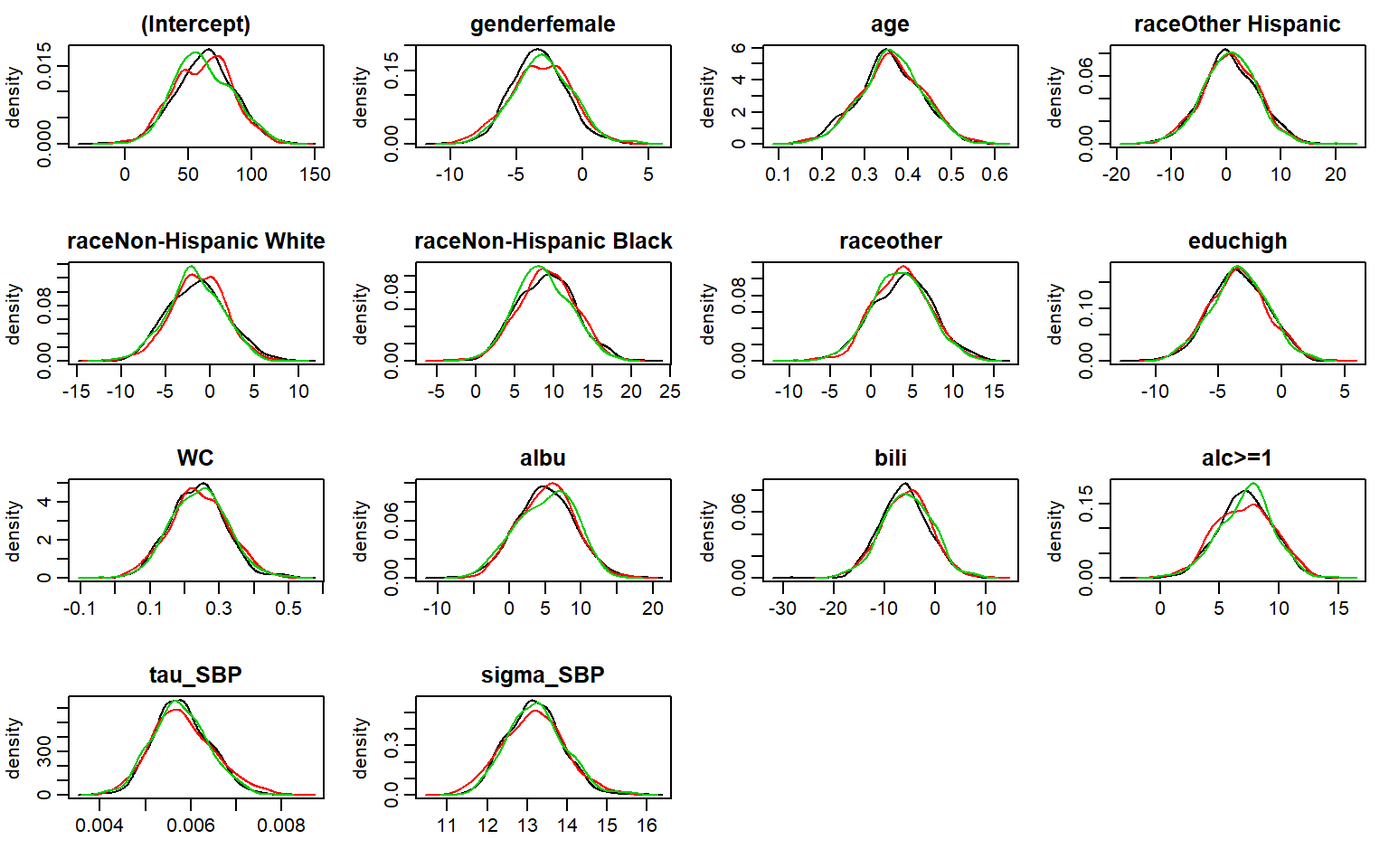
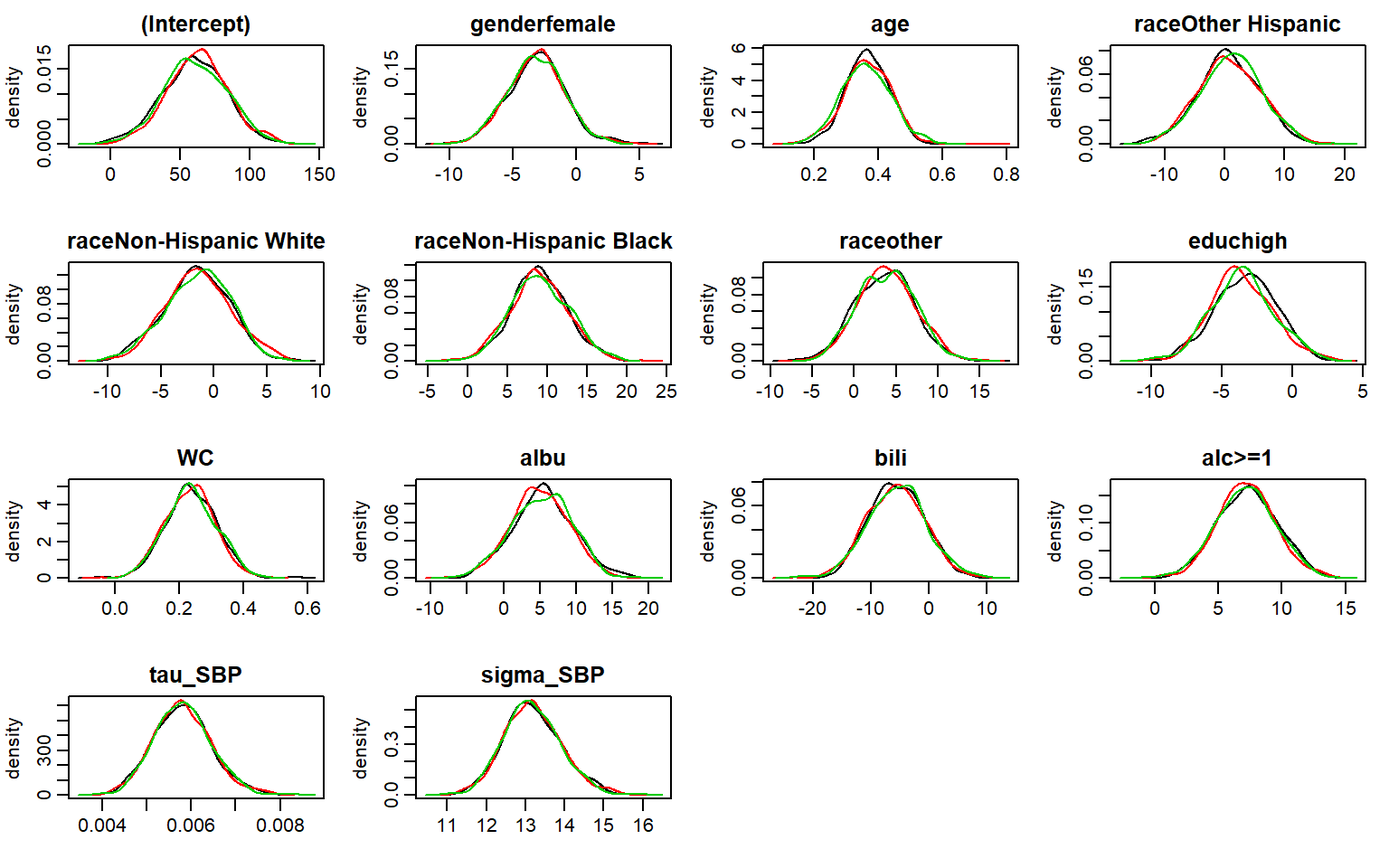
update webpage [skip ci]

diff --git a/docs/articles/SelectingParameters.html b/docs/articles/SelectingParameters.html
@@ -106,7 +106,7 @@
             <h3 class="subtitle">How to specify which parameters to monitor and display in the results.</h3>
                         <h4 class="author">Nicole Erler</h4>
             
-            <h4 class="date">2018-08-17</h4>
+            <h4 class="date">2018-10-11</h4>
       
       <small class="dont-index">Source: <a href="https://github.com/nerler/JointAI/blob/master/vignettes/SelectingParameters.Rmd"><code>vignettes/SelectingParameters.Rmd</code></a></small>
       <div class="hidden name"><code>SelectingParameters.Rmd</code></div>
@@ -423,16 +423,16 @@
 <a class="sourceLine" id="cb10-14" data-line-number="14"><span class="co">#&gt;     mess = FALSE)</span></a>
 <a class="sourceLine" id="cb10-15" data-line-number="15"><span class="co">#&gt; </span></a>
 <a class="sourceLine" id="cb10-16" data-line-number="16"><span class="co">#&gt; Posterior summary:</span></a>
-<a class="sourceLine" id="cb10-17" data-line-number="17"><span class="co">#&gt;                 Mean      SD     2.5%    97.5% tail-prob.</span></a>
-<a class="sourceLine" id="cb10-18" data-line-number="18"><span class="co">#&gt; (Intercept)  80.3247 9.90306  63.9270 101.0691     0.0000</span></a>
-<a class="sourceLine" id="cb10-19" data-line-number="19"><span class="co">#&gt; genderfemale  0.4093 2.59864  -4.6925   5.5790     0.8667</span></a>
-<a class="sourceLine" id="cb10-20" data-line-number="20"><span class="co">#&gt; WC            0.3083 0.07712   0.1667   0.4481     0.0000</span></a>
-<a class="sourceLine" id="cb10-21" data-line-number="21"><span class="co">#&gt; creat         8.1528 8.24789 -10.4008  23.9831     0.2933</span></a>
-<a class="sourceLine" id="cb10-22" data-line-number="22"><span class="co">#&gt; alc&gt;=1        6.7247 2.17851   2.6969  11.0105     0.0000</span></a>
+<a class="sourceLine" id="cb10-17" data-line-number="17"><span class="co">#&gt;                 Mean      SD    2.5%   97.5% tail-prob.</span></a>
+<a class="sourceLine" id="cb10-18" data-line-number="18"><span class="co">#&gt; (Intercept)  80.5811 9.51610 61.9715 98.4175   0.000000</span></a>
+<a class="sourceLine" id="cb10-19" data-line-number="19"><span class="co">#&gt; genderfemale  0.4013 2.40655 -4.2684  5.7103   0.893333</span></a>
+<a class="sourceLine" id="cb10-20" data-line-number="20"><span class="co">#&gt; WC            0.3092 0.07475  0.1643  0.4521   0.000000</span></a>
+<a class="sourceLine" id="cb10-21" data-line-number="21"><span class="co">#&gt; creat         8.0391 7.28329 -6.1762 21.2571   0.226667</span></a>
+<a class="sourceLine" id="cb10-22" data-line-number="22"><span class="co">#&gt; alc&gt;=1        6.3913 2.46871  1.9944 11.4872   0.006667</span></a>
 <a class="sourceLine" id="cb10-23" data-line-number="23"><span class="co">#&gt; </span></a>
 <a class="sourceLine" id="cb10-24" data-line-number="24"><span class="co">#&gt; Posterior summary of residual std. deviation:</span></a>
-<a class="sourceLine" id="cb10-25" data-line-number="25"><span class="co">#&gt;            Mean     SD  2.5% 97.5%</span></a>
-<a class="sourceLine" id="cb10-26" data-line-number="26"><span class="co">#&gt; sigma_SBP 14.43 0.8102 13.03 16.19</span></a>
+<a class="sourceLine" id="cb10-25" data-line-number="25"><span class="co">#&gt;           Mean    SD  2.5% 97.5%</span></a>
+<a class="sourceLine" id="cb10-26" data-line-number="26"><span class="co">#&gt; sigma_SBP 14.3 0.757 12.99 15.88</span></a>
 <a class="sourceLine" id="cb10-27" data-line-number="27"><span class="co">#&gt; </span></a>
 <a class="sourceLine" id="cb10-28" data-line-number="28"><span class="co">#&gt; </span></a>
 <a class="sourceLine" id="cb10-29" data-line-number="29"><span class="co">#&gt; MCMC settings:</span></a>
@@ -456,28 +456,28 @@
 <a class="sourceLine" id="cb12-4" data-line-number="4"><span class="co">#&gt; Potential scale reduction factors:</span></a>
 <a class="sourceLine" id="cb12-5" data-line-number="5"><span class="co">#&gt; </span></a>
 <a class="sourceLine" id="cb12-6" data-line-number="6"><span class="co">#&gt;              Point est. Upper C.I.</span></a>
-<a class="sourceLine" id="cb12-7" data-line-number="7"><span class="co">#&gt; (Intercept)       1.008       1.04</span></a>
-<a class="sourceLine" id="cb12-8" data-line-number="8"><span class="co">#&gt; genderfemale      0.998       1.00</span></a>
-<a class="sourceLine" id="cb12-9" data-line-number="9"><span class="co">#&gt; WC                1.013       1.06</span></a>
-<a class="sourceLine" id="cb12-10" data-line-number="10"><span class="co">#&gt; creat             1.004       1.01</span></a>
-<a class="sourceLine" id="cb12-11" data-line-number="11"><span class="co">#&gt; alc&gt;=1            1.005       1.01</span></a>
-<a class="sourceLine" id="cb12-12" data-line-number="12"><span class="co">#&gt; tau_SBP           1.013       1.04</span></a>
-<a class="sourceLine" id="cb12-13" data-line-number="13"><span class="co">#&gt; sigma_SBP         1.017       1.05</span></a>
+<a class="sourceLine" id="cb12-7" data-line-number="7"><span class="co">#&gt; (Intercept)        1.00       1.01</span></a>
+<a class="sourceLine" id="cb12-8" data-line-number="8"><span class="co">#&gt; genderfemale       1.01       1.03</span></a>
+<a class="sourceLine" id="cb12-9" data-line-number="9"><span class="co">#&gt; WC                 1.01       1.03</span></a>
+<a class="sourceLine" id="cb12-10" data-line-number="10"><span class="co">#&gt; creat              1.01       1.04</span></a>
+<a class="sourceLine" id="cb12-11" data-line-number="11"><span class="co">#&gt; alc&gt;=1             1.01       1.05</span></a>
+<a class="sourceLine" id="cb12-12" data-line-number="12"><span class="co">#&gt; tau_SBP            1.03       1.11</span></a>
+<a class="sourceLine" id="cb12-13" data-line-number="13"><span class="co">#&gt; sigma_SBP          1.04       1.13</span></a>
 <a class="sourceLine" id="cb12-14" data-line-number="14"><span class="co">#&gt; </span></a>
 <a class="sourceLine" id="cb12-15" data-line-number="15"><span class="co">#&gt; Multivariate psrf</span></a>
 <a class="sourceLine" id="cb12-16" data-line-number="16"><span class="co">#&gt; </span></a>
-<a class="sourceLine" id="cb12-17" data-line-number="17"><span class="co">#&gt; 1.03</span></a>
+<a class="sourceLine" id="cb12-17" data-line-number="17"><span class="co">#&gt; 1.06</span></a>
 <a class="sourceLine" id="cb12-18" data-line-number="18"></a>
 <a class="sourceLine" id="cb12-19" data-line-number="19"><span class="co"># Monte Carlo Error of the MCMC sample</span></a>
 <a class="sourceLine" id="cb12-20" data-line-number="20"><span class="kw"><a href="../reference/MC_error.html">MC_error</a></span>(lm5)</a>
 <a class="sourceLine" id="cb12-21" data-line-number="21"><span class="co">#&gt;                  est    MCSE      SD MCSE/SD</span></a>
-<a class="sourceLine" id="cb12-22" data-line-number="22"><span class="co">#&gt; (Intercept)  38.1398 4.2e+00 4.8e+01   0.088</span></a>
-<a class="sourceLine" id="cb12-23" data-line-number="23"><span class="co">#&gt; genderfemale  0.4093 1.7e-01 2.6e+00   0.066</span></a>
-<a class="sourceLine" id="cb12-24" data-line-number="24"><span class="co">#&gt; WC            0.0211 3.2e-04 5.3e-03   0.061</span></a>
-<a class="sourceLine" id="cb12-25" data-line-number="25"><span class="co">#&gt; creat        47.6226 4.2e+00 4.8e+01   0.087</span></a>
-<a class="sourceLine" id="cb12-26" data-line-number="26"><span class="co">#&gt; alc&gt;=1        6.7247 1.1e-01 2.2e+00   0.051</span></a>
-<a class="sourceLine" id="cb12-27" data-line-number="27"><span class="co">#&gt; tau_SBP       0.0048 3.2e-05 5.4e-04   0.060</span></a>
-<a class="sourceLine" id="cb12-28" data-line-number="28"><span class="co">#&gt; sigma_SBP    14.4324 4.9e-02 8.1e-01   0.060</span></a></code></pre></div>
+<a class="sourceLine" id="cb12-22" data-line-number="22"><span class="co">#&gt; (Intercept)  38.9510 2.9e+00 4.2e+01   0.069</span></a>
+<a class="sourceLine" id="cb12-23" data-line-number="23"><span class="co">#&gt; genderfemale  0.4013 1.1e-01 2.4e+00   0.044</span></a>
+<a class="sourceLine" id="cb12-24" data-line-number="24"><span class="co">#&gt; WC            0.0211 3.4e-04 5.1e-03   0.067</span></a>
+<a class="sourceLine" id="cb12-25" data-line-number="25"><span class="co">#&gt; creat        46.9580 3.0e+00 4.3e+01   0.070</span></a>
+<a class="sourceLine" id="cb12-26" data-line-number="26"><span class="co">#&gt; alc&gt;=1        6.3913 1.7e-01 2.5e+00   0.069</span></a>
+<a class="sourceLine" id="cb12-27" data-line-number="27"><span class="co">#&gt; tau_SBP       0.0049 3.2e-05 5.2e-04   0.061</span></a>
+<a class="sourceLine" id="cb12-28" data-line-number="28"><span class="co">#&gt; sigma_SBP    14.2987 4.7e-02 7.6e-01   0.062</span></a></code></pre></div>
 <p>When <code>analysis_main</code> was not switched on, all parameters are displayed by default:</p>
 <div class="sourceCode" id="cb13"><pre class="sourceCode r"><code class="sourceCode r"><a class="sourceLine" id="cb13-1" data-line-number="1"><span class="co"># Re-run the model from above, now creating MCMC samples</span></a>
 <a class="sourceLine" id="cb13-2" data-line-number="2">lm4 &lt;-<span class="st"> </span><span class="kw"><a href="../reference/model_imp.html">lm_imp</a></span>(SBP <span class="op">~</span><span class="st"> </span>gender <span class="op">+</span><span class="st"> </span>WC <span class="op">+</span><span class="st"> </span>alc <span class="op">+</span><span class="st"> </span>creat,</a>
@@ -496,21 +496,21 @@
 <a class="sourceLine" id="cb14-3" data-line-number="3"><span class="co">#&gt; Potential scale reduction factors:</span></a>
 <a class="sourceLine" id="cb14-4" data-line-number="4"><span class="co">#&gt; </span></a>
 <a class="sourceLine" id="cb14-5" data-line-number="5"><span class="co">#&gt;           Point est. Upper C.I.</span></a>
-<a class="sourceLine" id="cb14-6" data-line-number="6"><span class="co">#&gt; alpha[1]       1.005       1.01</span></a>
-<a class="sourceLine" id="cb14-7" data-line-number="7"><span class="co">#&gt; alpha[2]       0.998       1.00</span></a>
-<a class="sourceLine" id="cb14-8" data-line-number="8"><span class="co">#&gt; alpha[3]       1.003       1.01</span></a>
-<a class="sourceLine" id="cb14-9" data-line-number="9"><span class="co">#&gt; alpha[4]       1.001       1.00</span></a>
-<a class="sourceLine" id="cb14-10" data-line-number="10"><span class="co">#&gt; alpha[5]       1.023       1.06</span></a>
-<a class="sourceLine" id="cb14-11" data-line-number="11"><span class="co">#&gt; alpha[6]       1.074       1.25</span></a>
-<a class="sourceLine" id="cb14-12" data-line-number="12"><span class="co">#&gt; alpha[7]       1.057       1.20</span></a>
-<a class="sourceLine" id="cb14-13" data-line-number="13"><span class="co">#&gt; alpha[8]       1.012       1.04</span></a>
-<a class="sourceLine" id="cb14-14" data-line-number="14"><span class="co">#&gt; alpha[9]       1.064       1.22</span></a>
-<a class="sourceLine" id="cb14-15" data-line-number="15"><span class="co">#&gt; tau_WC         1.007       1.02</span></a>
-<a class="sourceLine" id="cb14-16" data-line-number="16"><span class="co">#&gt; tau_creat      1.008       1.04</span></a>
+<a class="sourceLine" id="cb14-6" data-line-number="6"><span class="co">#&gt; alpha[1]       0.998       1.00</span></a>
+<a class="sourceLine" id="cb14-7" data-line-number="7"><span class="co">#&gt; alpha[2]       1.004       1.01</span></a>
+<a class="sourceLine" id="cb14-8" data-line-number="8"><span class="co">#&gt; alpha[3]       1.020       1.07</span></a>
+<a class="sourceLine" id="cb14-9" data-line-number="9"><span class="co">#&gt; alpha[4]       1.023       1.09</span></a>
+<a class="sourceLine" id="cb14-10" data-line-number="10"><span class="co">#&gt; alpha[5]       1.007       1.04</span></a>
+<a class="sourceLine" id="cb14-11" data-line-number="11"><span class="co">#&gt; alpha[6]       1.028       1.10</span></a>
+<a class="sourceLine" id="cb14-12" data-line-number="12"><span class="co">#&gt; alpha[7]       1.041       1.14</span></a>
+<a class="sourceLine" id="cb14-13" data-line-number="13"><span class="co">#&gt; alpha[8]       1.002       1.02</span></a>
+<a class="sourceLine" id="cb14-14" data-line-number="14"><span class="co">#&gt; alpha[9]       1.042       1.15</span></a>
+<a class="sourceLine" id="cb14-15" data-line-number="15"><span class="co">#&gt; tau_WC         1.000       1.00</span></a>
+<a class="sourceLine" id="cb14-16" data-line-number="16"><span class="co">#&gt; tau_creat      1.000       1.00</span></a>
 <a class="sourceLine" id="cb14-17" data-line-number="17"><span class="co">#&gt; </span></a>
 <a class="sourceLine" id="cb14-18" data-line-number="18"><span class="co">#&gt; Multivariate psrf</span></a>
 <a class="sourceLine" id="cb14-19" data-line-number="19"><span class="co">#&gt; </span></a>
-<a class="sourceLine" id="cb14-20" data-line-number="20"><span class="co">#&gt; 1.09</span></a></code></pre></div>
+<a class="sourceLine" id="cb14-20" data-line-number="20"><span class="co">#&gt; 1.07</span></a></code></pre></div>
 <p>To select only some of the parameters, they can be specified directly by name via the <code>other</code> element of <code>subset</code>:</p>
 <div class="sourceCode" id="cb15"><pre class="sourceCode r"><code class="sourceCode r"><a class="sourceLine" id="cb15-1" data-line-number="1"><span class="kw">summary</span>(lm5, <span class="dt">subset =</span> <span class="kw">list</span>(<span class="dt">other =</span> <span class="kw">c</span>(<span class="st">'creat'</span>, <span class="st">'alc&gt;=1'</span>)))</a>
 <a class="sourceLine" id="cb15-2" data-line-number="2"><span class="co">#&gt; </span></a>
@@ -522,9 +522,9 @@
 <a class="sourceLine" id="cb15-8" data-line-number="8"><span class="co">#&gt;     mess = FALSE)</span></a>
 <a class="sourceLine" id="cb15-9" data-line-number="9"><span class="co">#&gt; </span></a>
 <a class="sourceLine" id="cb15-10" data-line-number="10"><span class="co">#&gt; Posterior summary:</span></a>
-<a class="sourceLine" id="cb15-11" data-line-number="11"><span class="co">#&gt;         Mean    SD    2.5% 97.5% tail-prob.</span></a>
-<a class="sourceLine" id="cb15-12" data-line-number="12"><span class="co">#&gt; creat  8.153 8.248 -10.401 23.98     0.2933</span></a>
-<a class="sourceLine" id="cb15-13" data-line-number="13"><span class="co">#&gt; alc&gt;=1 6.725 2.179   2.697 11.01     0.0000</span></a>
+<a class="sourceLine" id="cb15-11" data-line-number="11"><span class="co">#&gt;         Mean    SD   2.5% 97.5% tail-prob.</span></a>
+<a class="sourceLine" id="cb15-12" data-line-number="12"><span class="co">#&gt; creat  8.039 7.283 -6.176 21.26   0.226667</span></a>
+<a class="sourceLine" id="cb15-13" data-line-number="13"><span class="co">#&gt; alc&gt;=1 6.391 2.469  1.994 11.49   0.006667</span></a>
 <a class="sourceLine" id="cb15-14" data-line-number="14"><span class="co">#&gt; </span></a>
 <a class="sourceLine" id="cb15-15" data-line-number="15"><span class="co">#&gt; </span></a>
 <a class="sourceLine" id="cb15-16" data-line-number="16"><span class="co">#&gt; MCMC settings:</span></a>

diff --git a/docs/articles/MinimalExample.html b/docs/articles/MinimalExample.html
@@ -105,7 +105,7 @@
       <h1>Minimal Example</h1>
                         <h4 class="author">Nicole Erler</h4>
             
-            <h4 class="date">2018-08-17</h4>
+            <h4 class="date">2018-10-11</h4>
       
       <small class="dont-index">Source: <a href="https://github.com/nerler/JointAI/blob/master/vignettes/MinimalExample.Rmd"><code>vignettes/MinimalExample.Rmd</code></a></small>
       <div class="hidden name"><code>MinimalExample.Rmd</code></div>
@@ -148,22 +148,22 @@
 <a class="sourceLine" id="cb3-8" data-line-number="8"><span class="co">#&gt; </span></a>
 <a class="sourceLine" id="cb3-9" data-line-number="9"><span class="co">#&gt; Posterior summary:</span></a>
 <a class="sourceLine" id="cb3-10" data-line-number="10"><span class="co">#&gt;                           Mean       SD      2.5%    97.5% tail-prob.</span></a>
-<a class="sourceLine" id="cb3-11" data-line-number="11"><span class="co">#&gt; (Intercept)            61.9706 22.73838  19.25178 106.7669   0.009333</span></a>
-<a class="sourceLine" id="cb3-12" data-line-number="12"><span class="co">#&gt; genderfemale           -3.1794  2.21281  -7.43877   1.1645   0.136000</span></a>
-<a class="sourceLine" id="cb3-13" data-line-number="13"><span class="co">#&gt; age                     0.3600  0.07307   0.21744   0.5014   0.000000</span></a>
-<a class="sourceLine" id="cb3-14" data-line-number="14"><span class="co">#&gt; raceOther Hispanic      0.6555  4.98918  -9.52485  10.5483   0.897333</span></a>
-<a class="sourceLine" id="cb3-15" data-line-number="15"><span class="co">#&gt; raceNon-Hispanic White -1.4687  3.17973  -7.64047   4.6422   0.653333</span></a>
-<a class="sourceLine" id="cb3-16" data-line-number="16"><span class="co">#&gt; raceNon-Hispanic Black  8.9857  3.62409   2.24082  16.1620   0.010667</span></a>
-<a class="sourceLine" id="cb3-17" data-line-number="17"><span class="co">#&gt; raceother               3.6784  3.57537  -3.25126  10.6580   0.300000</span></a>
-<a class="sourceLine" id="cb3-18" data-line-number="18"><span class="co">#&gt; educhigh               -3.4017  2.25281  -7.96399   1.0274   0.134667</span></a>
-<a class="sourceLine" id="cb3-19" data-line-number="19"><span class="co">#&gt; WC                      0.2398  0.08170   0.08734   0.3982   0.001333</span></a>
-<a class="sourceLine" id="cb3-20" data-line-number="20"><span class="co">#&gt; albu                    5.0993  4.01889  -2.71999  12.5898   0.224000</span></a>
-<a class="sourceLine" id="cb3-21" data-line-number="21"><span class="co">#&gt; bili                   -5.7923  4.88854 -15.29000   3.7442   0.237333</span></a>
-<a class="sourceLine" id="cb3-22" data-line-number="22"><span class="co">#&gt; alc&gt;=1                  7.1585  2.33865   2.58164  11.5622   0.005333</span></a>
+<a class="sourceLine" id="cb3-11" data-line-number="11"><span class="co">#&gt; (Intercept)            61.2044 22.34042  16.87496 105.6097   0.004000</span></a>
+<a class="sourceLine" id="cb3-12" data-line-number="12"><span class="co">#&gt; genderfemale           -3.1176  2.24039  -7.41310   1.3510   0.148000</span></a>
+<a class="sourceLine" id="cb3-13" data-line-number="13"><span class="co">#&gt; age                     0.3646  0.07281   0.21382   0.5015   0.000000</span></a>
+<a class="sourceLine" id="cb3-14" data-line-number="14"><span class="co">#&gt; raceOther Hispanic      0.8638  5.11996  -9.43010  10.7617   0.869333</span></a>
+<a class="sourceLine" id="cb3-15" data-line-number="15"><span class="co">#&gt; raceNon-Hispanic White -1.5215  3.04112  -7.62463   4.3000   0.629333</span></a>
+<a class="sourceLine" id="cb3-16" data-line-number="16"><span class="co">#&gt; raceNon-Hispanic Black  9.0333  3.58081   2.07704  16.1567   0.012000</span></a>
+<a class="sourceLine" id="cb3-17" data-line-number="17"><span class="co">#&gt; raceother               3.8067  3.45163  -2.75214  10.3218   0.269333</span></a>
+<a class="sourceLine" id="cb3-18" data-line-number="18"><span class="co">#&gt; educhigh               -3.5014  2.19464  -7.74793   0.8789   0.122667</span></a>
+<a class="sourceLine" id="cb3-19" data-line-number="19"><span class="co">#&gt; WC                      0.2364  0.07902   0.08523   0.3881   0.004000</span></a>
+<a class="sourceLine" id="cb3-20" data-line-number="20"><span class="co">#&gt; albu                    5.2677  4.08660  -2.91482  13.0830   0.197333</span></a>
+<a class="sourceLine" id="cb3-21" data-line-number="21"><span class="co">#&gt; bili                   -5.6240  4.89290 -14.85505   3.6771   0.250667</span></a>
+<a class="sourceLine" id="cb3-22" data-line-number="22"><span class="co">#&gt; alc&gt;=1                  7.2322  2.31987   2.82274  11.7413   0.001333</span></a>
 <a class="sourceLine" id="cb3-23" data-line-number="23"><span class="co">#&gt; </span></a>
 <a class="sourceLine" id="cb3-24" data-line-number="24"><span class="co">#&gt; Posterior summary of residual std. deviation:</span></a>
 <a class="sourceLine" id="cb3-25" data-line-number="25"><span class="co">#&gt;            Mean     SD  2.5% 97.5%</span></a>
-<a class="sourceLine" id="cb3-26" data-line-number="26"><span class="co">#&gt; sigma_SBP 13.19 0.7309 11.82 14.68</span></a>
+<a class="sourceLine" id="cb3-26" data-line-number="26"><span class="co">#&gt; sigma_SBP 13.18 0.7363 11.82 14.73</span></a>
 <a class="sourceLine" id="cb3-27" data-line-number="27"><span class="co">#&gt; </span></a>
 <a class="sourceLine" id="cb3-28" data-line-number="28"><span class="co">#&gt; </span></a>
 <a class="sourceLine" id="cb3-29" data-line-number="29"><span class="co">#&gt; MCMC settings:</span></a>

diff --git a/docs/reference/GR_crit.html b/docs/reference/GR_crit.html
@@ -220,9 +220,11 @@ given directly by <strong>JointAI</strong>.</p></td>
     
     <h2 class="hasAnchor" id="references"><a class="anchor" href="#references"></a>References</h2>
 
-    <p>Gelman, A., Meng, X. L., &amp; Stern, H. (1996).
-Posterior predictive assessment of model fitness via realized discrepancies.
-<em>Statistica Sinica</em>, 733-760.</p>
+    <p>Gelman, A and Rubin, DB (1992) Inference from iterative simulation using
+multiple sequences, <em>Statistical Science</em>, <strong>7</strong>, 457-511.
+Brooks, SP. and Gelman, A. (1998) General methods for monitoring convergence
+of iterative simulations.
+<em>Journal of Computational and Graphical Statistics</em>, <strong>7</strong>, 434-455.</p>
     
     <h2 class="hasAnchor" id="see-also"><a class="anchor" href="#see-also"></a>See also</h2>
 
@@ -234,18 +236,18 @@ contains some examples how to specify the argument <code>subset</code>.</p></div
     <pre class="examples"><div class='input'><span class='no'>mod1</span> <span class='kw'>&lt;-</span> <span class='fu'><a href='model_imp.html'>lm_imp</a></span>(<span class='no'>y</span>~<span class='no'>C1</span> + <span class='no'>C2</span> + <span class='no'>M2</span>, <span class='kw'>data</span> <span class='kw'>=</span> <span class='no'>wideDF</span>, <span class='kw'>n.iter</span> <span class='kw'>=</span> <span class='fl'>100</span>)</div><div class='output co'>#&gt; <span class='message'>This is new software. Please report any bug to the package maintainer.</span></div><div class='input'><span class='fu'>GR_crit</span>(<span class='no'>mod1</span>)</div><div class='output co'>#&gt; Potential scale reduction factors:
 #&gt; 
 #&gt;             Point est. Upper C.I.
-#&gt; (Intercept)       1.02       1.04
-#&gt; C1                1.02       1.05
-#&gt; M22               1.05       1.17
-#&gt; M23               1.14       1.43
-#&gt; M24               1.13       1.39
-#&gt; C2                1.02       1.05
-#&gt; tau_y             1.00       1.01
-#&gt; sigma_y           1.00       1.01
+#&gt; (Intercept)      1.010       1.05
+#&gt; C1               1.010       1.05
+#&gt; M22              1.009       1.04
+#&gt; M23              1.002       1.01
+#&gt; M24              1.002       1.02
+#&gt; C2               1.001       1.00
+#&gt; tau_y            0.998       1.00
+#&gt; sigma_y          1.000       1.00
 #&gt; 
 #&gt; Multivariate psrf
 #&gt; 
-#&gt; 1.15</div><div class='input'>
+#&gt; 1.02</div><div class='input'>
 
 
 </div></pre>

diff --git a/docs/reference/MC_error.html b/docs/reference/MC_error.html
@@ -262,14 +262,14 @@ contains some examples how to specify the argument <code>subset</code>.</p></div
     <h2 class="hasAnchor" id="examples"><a class="anchor" href="#examples"></a>Examples</h2>
     <pre class="examples"><div class='input'><span class='no'>mod</span> <span class='kw'>&lt;-</span> <span class='fu'><a href='model_imp.html'>lm_imp</a></span>(<span class='no'>y</span>~<span class='no'>C1</span> + <span class='no'>C2</span> + <span class='no'>M2</span>, <span class='kw'>data</span> <span class='kw'>=</span> <span class='no'>wideDF</span>, <span class='kw'>n.iter</span> <span class='kw'>=</span> <span class='fl'>100</span>)</div><div class='output co'>#&gt; <span class='message'>This is new software. Please report any bug to the package maintainer.</span></div><div class='input'>
 <span class='fu'>MC_error</span>(<span class='no'>mod</span>)</div><div class='output co'>#&gt;                  est    MCSE      SD MCSE/SD
-#&gt; (Intercept)  2.9e+03 1.3e+02 1.9e+03   0.065
-#&gt; C1          -2.0e+03 8.7e+01 1.3e+03   0.065
-#&gt; M22         -3.5e-01 7.1e-02 6.2e-01   0.114
-#&gt; M23          9.7e-02 6.5e-02 6.3e-01   0.103
-#&gt; M24         -1.2e+00 7.2e-02 6.6e-01   0.109
-#&gt; C2           2.7e+00 1.2e-01 2.1e+00   0.056
-#&gt; tau_y        2.1e-01 1.8e-03 3.1e-02   0.059
-#&gt; sigma_y      2.2e+00 9.3e-03 1.7e-01   0.056</div><div class='input'>
+#&gt; (Intercept)  2837.83 1.0e+02 1846.54   0.055
+#&gt; C1          -1955.36 7.0e+01 1271.10   0.055
+#&gt; M22            -0.25 9.0e-02    0.69   0.132
+#&gt; M23             0.15 9.5e-02    0.67   0.141
+#&gt; M24            -1.07 9.4e-02    0.68   0.137
+#&gt; C2              2.86 1.2e-01    2.13   0.056
+#&gt; tau_y           0.20 1.3e-03    0.03   0.044
+#&gt; sigma_y         2.23 6.7e-03    0.16   0.043</div><div class='input'>
 <span class='fu'>plot</span>(<span class='fu'>MC_error</span>(<span class='no'>mod</span>), <span class='kw'>ablinepars</span> <span class='kw'>=</span> <span class='fu'>list</span>(<span class='kw'>lty</span> <span class='kw'>=</span> <span class='fl'>2</span>))</div><div class='img'><img src='MC_error-1.png' alt='' width='700' height='433' /></div><div class='input'>
 </div></pre>
   </div>

diff --git a/docs/reference/traceplot.html b/docs/reference/traceplot.html
@@ -155,7 +155,8 @@
 <span class='co'># S3 method for JointAI</span>
 <span class='fu'>traceplot</span>(<span class='no'>object</span>, <span class='kw'>start</span> <span class='kw'>=</span> <span class='kw'>NULL</span>, <span class='kw'>end</span> <span class='kw'>=</span> <span class='kw'>NULL</span>,
   <span class='kw'>thin</span> <span class='kw'>=</span> <span class='kw'>NULL</span>, <span class='kw'>subset</span> <span class='kw'>=</span> <span class='fu'>c</span>(<span class='kw'>analysis_main</span> <span class='kw'>=</span> <span class='fl'>TRUE</span>), <span class='kw'>nrow</span> <span class='kw'>=</span> <span class='kw'>NULL</span>,
-  <span class='kw'>ncol</span> <span class='kw'>=</span> <span class='kw'>NULL</span>, <span class='kw'>use_ggplot</span> <span class='kw'>=</span> <span class='fl'>FALSE</span>, <span class='kw'>warn</span> <span class='kw'>=</span> <span class='fl'>TRUE</span>, <span class='no'>...</span>)</pre>
+  <span class='kw'>ncol</span> <span class='kw'>=</span> <span class='kw'>NULL</span>, <span class='kw'>keep_aux</span> <span class='kw'>=</span> <span class='fl'>FALSE</span>, <span class='kw'>use_ggplot</span> <span class='kw'>=</span> <span class='fl'>FALSE</span>, <span class='kw'>warn</span> <span class='kw'>=</span> <span class='fl'>TRUE</span>,
+  <span class='no'>...</span>)</pre>
     
     <h2 class="hasAnchor" id="arguments"><a class="anchor" href="#arguments"></a>Arguments</h2>
     <table class="ref-arguments">
@@ -225,6 +226,10 @@ automatically chosen if unspecified</p></td>
       <th>ncol</th>
       <td><p>optional number of rows and columns in the plot layout;
 automatically chosen if unspecified</p></td>
+    </tr>
+    <tr>
+      <th>keep_aux</th>
+      <td><p>logical; Should constant effects of auxiliary variables be kept in the output?</p></td>
     </tr>
     <tr>
       <th>use_ggplot</th>

diff --git a/docs/reference/densplot.html b/docs/reference/densplot.html
@@ -158,7 +158,7 @@ of an object of class "JointAI".</p>
 <span class='fu'>densplot</span>(<span class='no'>object</span>, <span class='kw'>start</span> <span class='kw'>=</span> <span class='kw'>NULL</span>, <span class='kw'>end</span> <span class='kw'>=</span> <span class='kw'>NULL</span>,
   <span class='kw'>thin</span> <span class='kw'>=</span> <span class='kw'>NULL</span>, <span class='kw'>subset</span> <span class='kw'>=</span> <span class='fu'>c</span>(<span class='kw'>analysis_main</span> <span class='kw'>=</span> <span class='fl'>TRUE</span>), <span class='kw'>vlines</span> <span class='kw'>=</span> <span class='kw'>NULL</span>,
   <span class='kw'>nrow</span> <span class='kw'>=</span> <span class='kw'>NULL</span>, <span class='kw'>ncol</span> <span class='kw'>=</span> <span class='kw'>NULL</span>, <span class='kw'>joined</span> <span class='kw'>=</span> <span class='fl'>FALSE</span>, <span class='kw'>use_ggplot</span> <span class='kw'>=</span> <span class='fl'>FALSE</span>,
-  <span class='kw'>warn</span> <span class='kw'>=</span> <span class='fl'>TRUE</span>, <span class='no'>...</span>)</pre>
+  <span class='kw'>keep_aux</span> <span class='kw'>=</span> <span class='fl'>FALSE</span>, <span class='kw'>warn</span> <span class='kw'>=</span> <span class='fl'>TRUE</span>, <span class='no'>...</span>)</pre>
     
     <h2 class="hasAnchor" id="arguments"><a class="anchor" href="#arguments"></a>Arguments</h2>
     <table class="ref-arguments">
@@ -215,6 +215,10 @@ automatically chosen if unspecified</p></td>
     <tr>
       <th>use_ggplot</th>
       <td><p>logical; Should ggplot be used instead of the base graphics?</p></td>
+    </tr>
+    <tr>
+      <th>keep_aux</th>
+      <td><p>logical; Should constant effects of auxiliary variables be kept in the output?</p></td>
     </tr>
     <tr>
       <th>warn</th>

diff --git a/docs/news/index.html b/docs/news/index.html
@@ -152,6 +152,21 @@
 <code><a href="../reference/plot_all.html">plot_all()</a></code> uses correct level-2 %NA in title</li>
 <li>
 <code>simWide</code>: case with no observed bmi values removed</li>
+<li>
+<code><a href="../reference/traceplot.html">traceplot()</a></code>, <code><a href="../reference/densplot.html">densplot()</a></code>: <code>ncol</code> and <code>nrow</code> now work with <code>use_ggplot = TRUE</code>
+</li>
+<li>
+<code><a href="../reference/traceplot.html">traceplot()</a></code>, <code><a href="../reference/densplot.html">densplot()</a></code>: error in specification of <code>nrow</code> fixed</li>
+<li>
+<code><a href="../reference/densplot.html">densplot()</a></code>: use of color fixed</li>
+<li>functions with argument <code>subset</code> now return random effects covariance matrix correctly</li>
+<li>
+<code>summary()</code> displayes output with rowname when only one node is returned and fixed display of <code>D</code> matrix</li>
+<li>
+<code><a href="../reference/GR_crit.html">GR_crit()</a></code>: Literature reference corrected</li>
+<li>
+<code>predict()</code>: prediction with varying factor fixed</li>
+<li>no scaling for variables involved in a function to avoid problems with re-scaling</li>
 </ul>
 </div>
 <div id="minor-changes" class="section level2">
@@ -163,6 +178,12 @@
 <li>
 <code><a href="../reference/list_impmodels.html">list_impmodels()</a></code> uses linebreak when output of predictor variables exceeds <code>getOption("width")</code>
 </li>
+<li>
+<code>summary()</code> now displays tail-probabilities for off-diagonal elements of <code>D</code>
+</li>
+<li>added option to show/hide constant effects of auxiliary variables in plots</li>
+<li>
+<code>predict()</code>: now also returns <code>newdata</code> extended with prediction</li>
 </ul>
 <hr>
 </div>

diff --git a/docs/reference/summary.JointAI.html b/docs/reference/summary.JointAI.html
@@ -232,17 +232,17 @@ given directly by <strong>JointAI</strong>.</p></td>
 #&gt; lm_imp(formula = y ~ C1 + C2 + M2, data = wideDF, n.iter = 100)
 #&gt; 
 #&gt; Posterior summary:
-#&gt;                  Mean      SD     2.5%   97.5% tail-prob.
-#&gt; (Intercept)  37.20482 26.0752 -11.6117 86.7659    0.12000
-#&gt; C1          -27.93379 18.2318 -62.4708  6.4265    0.11333
-#&gt; M22          -0.41426  0.6482  -1.6649  0.9943    0.53333
-#&gt; M23           0.05617  0.6584  -1.1792  1.3680    0.99333
-#&gt; M24          -1.13481  0.6742  -2.3652  0.2395    0.08667
-#&gt; C2            0.95232  0.6744  -0.3604  2.3259    0.12667
+#&gt;                  Mean      SD     2.5%    97.5% tail-prob.
+#&gt; (Intercept)  35.42300 23.7867  -7.4228 81.65398    0.12000
+#&gt; C1          -26.68427 16.5807 -58.4047  3.26893    0.10667
+#&gt; M22          -0.44850  0.6673  -1.7769  0.82531    0.46000
+#&gt; M23           0.03079  0.6547  -1.2599  1.22151    0.94000
+#&gt; M24          -1.24203  0.6399  -2.5993 -0.07239    0.03333
+#&gt; C2            0.92676  0.6964  -0.4324  2.15635    0.20667
 #&gt; 
 #&gt; Posterior summary of residual std. deviation:
-#&gt;          Mean     SD  2.5% 97.5%
-#&gt; sigma_y 2.249 0.1621 1.959 2.601
+#&gt;         Mean     SD  2.5% 97.5%
+#&gt; sigma_y 2.23 0.1554 1.949 2.543
 #&gt; 
 #&gt; 
 #&gt; MCMC settings:

diff --git a/docs/articles/VisualizingIncompleteData.html b/docs/articles/VisualizingIncompleteData.html
@@ -105,7 +105,7 @@
       <h1>Visualizing Incomplete Data</h1>
                         <h4 class="author">Nicole Erler</h4>
             
-            <h4 class="date">2018-08-17</h4>
+            <h4 class="date">2018-10-11</h4>
       
       <small class="dont-index">Source: <a href="https://github.com/nerler/JointAI/blob/master/vignettes/VisualizingIncompleteData.Rmd"><code>vignettes/VisualizingIncompleteData.Rmd</code></a></small>
       <div class="hidden name"><code>VisualizingIncompleteData.Rmd</code></div>

diff --git a/docs/articles/ModelSpecification.html b/docs/articles/ModelSpecification.html
@@ -105,7 +105,7 @@
       <h1>Model Specification</h1>
                         <h4 class="author">Nicole Erler</h4>
             
-            <h4 class="date">2018-08-17</h4>
+            <h4 class="date">2018-10-11</h4>
       
       <small class="dont-index">Source: <a href="https://github.com/nerler/JointAI/blob/master/vignettes/ModelSpecification.Rmd"><code>vignettes/ModelSpecification.Rmd</code></a></small>
       <div class="hidden name"><code>ModelSpecification.Rmd</code></div>

diff --git a/docs/reference/sharedParams.html b/docs/reference/sharedParams.html
@@ -210,6 +210,10 @@ This requires specification of the argument <code>idvar</code>.</p></td>
       <th>idvar</th>
       <td><p>name of the column that specifies the multi-level grouping structure</p></td>
     </tr>
+    <tr>
+      <th>keep_aux</th>
+      <td><p>logical; Should constant effects of auxiliary variables be kept in the output?</p></td>
+    </tr>
     </table>
     
 
